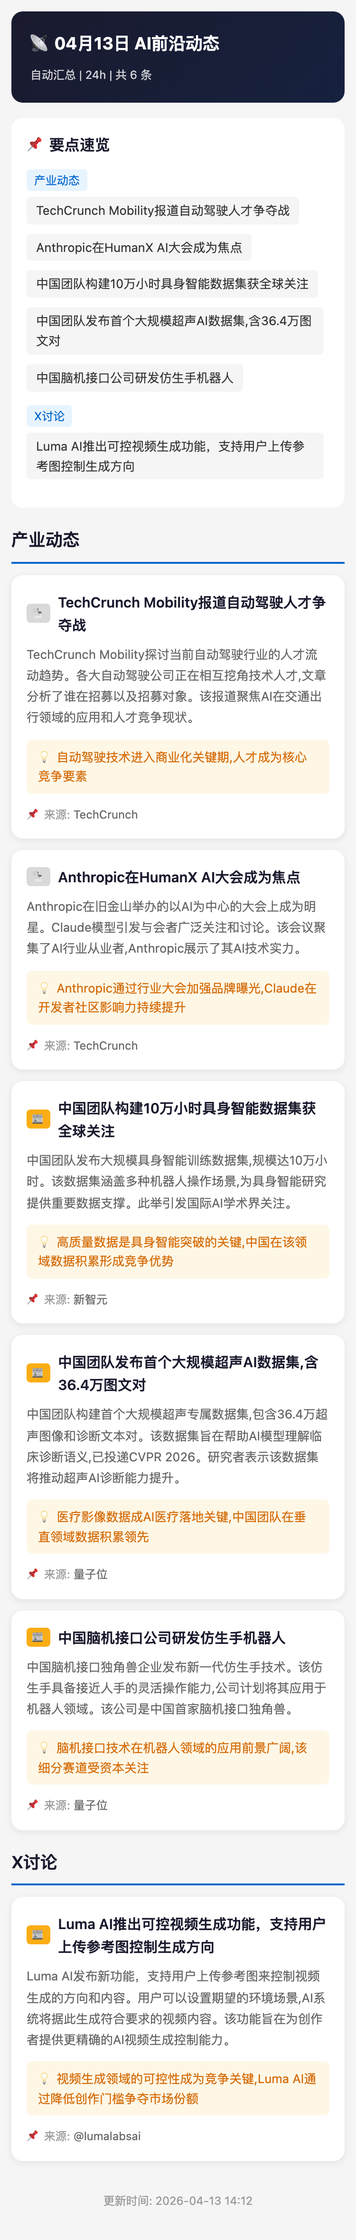
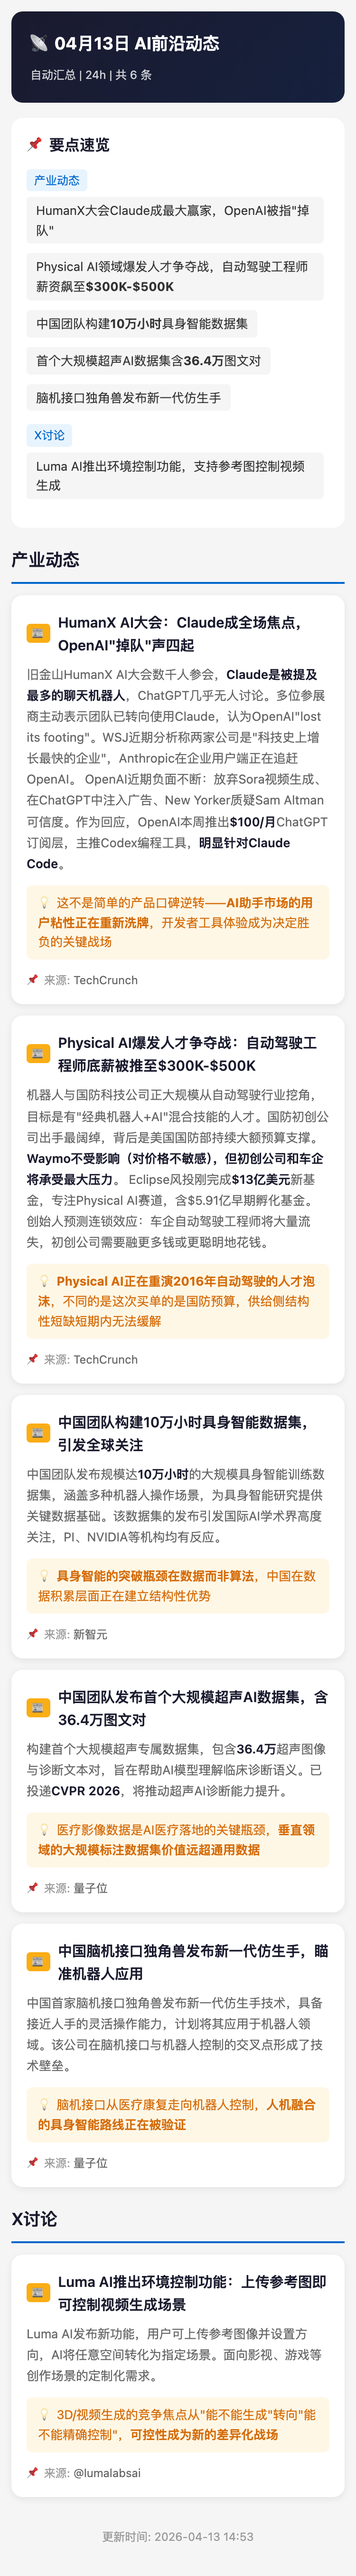
Improve: 2026-04-13 quality upgrade

diff --git a/daily-ai-news-2026-04-13.html b/daily-ai-news-2026-04-13.html
@@ -143,42 +143,42 @@
     </div>
 
     <div class="summary">
-        <h2>📌 要点速览</h2><div class="summary-item"><span class="cat-tag">产业动态</span><span class="summary-title">TechCrunch Mobility报道自动驾驶人才争夺战</span><span class="summary-title">Anthropic在HumanX AI大会成为焦点</span><span class="summary-title">中国团队构建10万小时具身智能数据集获全球关注</span><span class="summary-title">中国团队发布首个大规模超声AI数据集,含36.4万图文对</span><span class="summary-title">中国脑机接口公司研发仿生手机器人</span></div><div class="summary-item"><span class="cat-tag">X讨论</span><span class="summary-title">Luma AI推出可控视频生成功能，支持用户上传参考图控制生成方向</span></div>
+        <h2>📌 要点速览</h2><div class="summary-item"><span class="cat-tag">产业动态</span><span class="summary-title">HumanX大会Claude成最大赢家，OpenAI被指"掉队"</span><span class="summary-title">Physical AI领域爆发人才争夺战，自动驾驶工程师薪资飙至<strong>$300K-$500K</strong></span><span class="summary-title">中国团队构建<strong>10万小时</strong>具身智能数据集</span><span class="summary-title">首个大规模超声AI数据集含<strong>36.4万</strong>图文对</span><span class="summary-title">脑机接口独角兽发布新一代仿生手</span></div><div class="summary-item"><span class="cat-tag">X讨论</span><span class="summary-title">Luma AI推出环境控制功能，支持参考图控制视频生成</span></div>
     </div>
     <div class="content"><div class="section-title">产业动态</div>
         <div class="card">
             <div class="card-header">
-                <span class="priority low">📄</span>
-                <span class="title">TechCrunch Mobility报道自动驾驶人才争夺战</span>
-            </div><div class="body">TechCrunch Mobility探讨当前自动驾驶行业的人才流动趋势。各大自动驾驶公司正在相互挖角技术人才,文章分析了谁在招募以及招募对象。该报道聚焦AI在交通出行领域的应用和人才竞争现状。</div><div class="insight">💡 自动驾驶技术进入商业化关键期,人才成为核心竞争要素</div><div class="source">📌 来源: <a href="https://techcrunch.com/2026/04/12/techcrunch-mobility-who-is-poaching-all-the-self-driving-vehicle-talent/" target="_blank">TechCrunch</a></div></div>
-        <div class="card">
-            <div class="card-header">
-                <span class="priority low">📄</span>
-                <span class="title">Anthropic在HumanX AI大会成为焦点</span>
-            </div><div class="body">Anthropic在旧金山举办的以AI为中心的大会上成为明星。Claude模型引发与会者广泛关注和讨论。该会议聚集了AI行业从业者,Anthropic展示了其AI技术实力。</div><div class="insight">💡 Anthropic通过行业大会加强品牌曝光,Claude在开发者社区影响力持续提升</div><div class="source">📌 来源: <a href="https://techcrunch.com/2026/04/12/at-the-humanx-conference-everyone-was-talking-about-claude/" target="_blank">TechCrunch</a></div></div>
+                <span class="priority medium">📰</span>
+                <span class="title">HumanX AI大会：Claude成全场焦点，OpenAI"掉队"声四起</span>
+            </div><div class="body">旧金山HumanX AI大会数千人参会，<strong>Claude是被提及最多的聊天机器人</strong>，ChatGPT几乎无人讨论。多位参展商主动表示团队已转向使用Claude，认为OpenAI"lost its footing"。WSJ近期分析称两家公司是"科技史上增长最快的企业"，Anthropic在企业用户端正在追赶OpenAI。 OpenAI近期负面不断：放弃Sora视频生成、在ChatGPT中注入广告、New Yorker质疑Sam Altman可信度。作为回应，OpenAI本周推出<strong>$100/月</strong>ChatGPT订阅层，主推Codex编程工具，<strong>明显针对Claude Code</strong>。</div><div class="insight">💡 这不是简单的产品口碑逆转——<strong>AI助手市场的用户粘性正在重新洗牌</strong>，开发者工具体验成为决定胜负的关键战场</div><div class="source">📌 来源: <a href="https://techcrunch.com/2026/04/12/at-the-humanx-conference-everyone-was-talking-about-claude/" target="_blank">TechCrunch</a></div></div>
         <div class="card">
             <div class="card-header">
                 <span class="priority medium">📰</span>
-                <span class="title">中国团队构建10万小时具身智能数据集获全球关注</span>
-            </div><div class="body">中国团队发布大规模具身智能训练数据集,规模达10万小时。该数据集涵盖多种机器人操作场景,为具身智能研究提供重要数据支撑。此举引发国际AI学术界关注。</div><div class="insight">💡 高质量数据是具身智能突破的关键,中国在该领域数据积累形成竞争优势</div><div class="source">📌 来源: <a href="https://mp.weixin.qq.com/s?__biz=MzI3MTA0MTk1MA==&mid=2652691298&idx=1&sn=79453e0eb1067d97a6b91fdd81200b46" target="_blank">新智元</a></div></div>
+                <span class="title">Physical AI爆发人才争夺战：自动驾驶工程师底薪被推至$300K-$500K</span>
+            </div><div class="body">机器人与国防科技公司正大规模从自动驾驶行业挖角，目标是有"经典机器人+AI"混合技能的人才。国防初创公司出手最阔绰，背后是美国国防部持续大额预算支撑。<strong>Waymo不受影响（对价格不敏感），但初创公司和车企将承受最大压力</strong>。 Eclipse风投刚完成<strong>$13亿美元</strong>新基金，专注Physical AI赛道，含$5.91亿早期孵化基金。创始人预测连锁效应：车企自动驾驶工程师将大量流失，初创公司需要融更多钱或更聪明地花钱。</div><div class="insight">💡 <strong>Physical AI正在重演2016年自动驾驶的人才泡沫</strong>，不同的是这次买单的是国防预算，供给侧结构性短缺短期内无法缓解</div><div class="source">📌 来源: <a href="https://techcrunch.com/2026/04/12/techcrunch-mobility-who-is-poaching-all-the-self-driving-vehicle-talent/" target="_blank">TechCrunch</a></div></div>
         <div class="card">
             <div class="card-header">
                 <span class="priority medium">📰</span>
-                <span class="title">中国团队发布首个大规模超声AI数据集,含36.4万图文对</span>
-            </div><div class="body">中国团队构建首个大规模超声专属数据集,包含36.4万超声图像和诊断文本对。该数据集旨在帮助AI模型理解临床诊断语义,已投递CVPR 2026。研究者表示该数据集将推动超声AI诊断能力提升。</div><div class="insight">💡 医疗影像数据成AI医疗落地关键,中国团队在垂直领域数据积累领先</div><div class="source">📌 来源: <a href="https://mp.weixin.qq.com/s?__biz=MzIzNjc1NzUzMw==&mid=2247882513&idx=3&sn=59341c179023f0b961d21b4cf66b6d12" target="_blank">量子位</a></div></div>
+                <span class="title">中国团队构建10万小时具身智能数据集，引发全球关注</span>
+            </div><div class="body">中国团队发布规模达<strong>10万小时</strong>的大规模具身智能训练数据集，涵盖多种机器人操作场景，为具身智能研究提供关键数据基础。该数据集的发布引发国际AI学术界高度关注，PI、NVIDIA等机构均有反应。</div><div class="insight">💡 <strong>具身智能的突破瓶颈在数据而非算法</strong>，中国在数据积累层面正在建立结构性优势</div><div class="source">📌 来源: <a href="https://mp.weixin.qq.com/s?__biz=MzI3MTA0MTk1MA==&mid=2652691298&idx=1&sn=79453e0eb1067d97a6b91fdd81200b46" target="_blank">新智元</a></div></div>
         <div class="card">
             <div class="card-header">
                 <span class="priority medium">📰</span>
-                <span class="title">中国脑机接口公司研发仿生手机器人</span>
-            </div><div class="body">中国脑机接口独角兽企业发布新一代仿生手技术。该仿生手具备接近人手的灵活操作能力,公司计划将其应用于机器人领域。该公司是中国首家脑机接口独角兽。</div><div class="insight">💡 脑机接口技术在机器人领域的应用前景广阔,该细分赛道受资本关注</div><div class="source">📌 来源: <a href="https://mp.weixin.qq.com/s?__biz=MzIzNjc1NzUzMw==&mid=2247882513&idx=1&sn=d4c16158273ff392d9636bf5d11912ba" target="_blank">量子位</a></div></div><div class="section-title">X讨论</div>
+                <span class="title">中国团队发布首个大规模超声AI数据集，含36.4万图文对</span>
+            </div><div class="body">构建首个大规模超声专属数据集，包含<strong>36.4万</strong>超声图像与诊断文本对，旨在帮助AI模型理解临床诊断语义。已投递<strong>CVPR 2026</strong>，将推动超声AI诊断能力提升。</div><div class="insight">💡 医疗影像数据是AI医疗落地的关键瓶颈，<strong>垂直领域的大规模标注数据集价值远超通用数据</strong></div><div class="source">📌 来源: <a href="https://mp.weixin.qq.com/s?__biz=MzIzNjc1NzUzMw==&mid=2247882513&idx=3&sn=59341c179023f0b961d21b4cf66b6d12" target="_blank">量子位</a></div></div>
         <div class="card">
             <div class="card-header">
                 <span class="priority medium">📰</span>
-                <span class="title">Luma AI推出可控视频生成功能，支持用户上传参考图控制生成方向</span>
-            </div><div class="body">Luma AI发布新功能，支持用户上传参考图来控制视频生成的方向和内容。用户可以设置期望的环境场景,AI系统将据此生成符合要求的视频内容。该功能旨在为创作者提供更精确的AI视频生成控制能力。</div><div class="insight">💡 视频生成领域的可控性成为竞争关键,Luma AI通过降低创作门槛争夺市场份额</div><div class="source">📌 来源: <a href="https://x.com/LumaLabsAI/status/2043432137433764259#m" target="_blank">@lumalabsai</a></div></div>
+                <span class="title">中国脑机接口独角兽发布新一代仿生手，瞄准机器人应用</span>
+            </div><div class="body">中国首家脑机接口独角兽发布新一代仿生手技术，具备接近人手的灵活操作能力，计划将其应用于机器人领域。该公司在脑机接口与机器人控制的交叉点形成了技术壁垒。</div><div class="insight">💡 脑机接口从医疗康复走向机器人控制，<strong>人机融合的具身智能路线正在被验证</strong></div><div class="source">📌 来源: <a href="https://mp.weixin.qq.com/s?__biz=MzIzNjc1NzUzMw==&mid=2247882513&idx=1&sn=d4c16158273ff392d9636bf5d11912ba" target="_blank">量子位</a></div></div><div class="section-title">X讨论</div>
+        <div class="card">
+            <div class="card-header">
+                <span class="priority medium">📰</span>
+                <span class="title">Luma AI推出环境控制功能：上传参考图即可控制视频生成场景</span>
+            </div><div class="body">Luma AI发布新功能，用户可上传参考图像并设置方向，AI将任意空间转化为指定场景。面向影视、游戏等创作场景的定制化需求。</div><div class="insight">💡 3D/视频生成的竞争焦点从"能不能生成"转向"能不能精确控制"，<strong>可控性成为新的差异化战场</strong></div><div class="source">📌 来源: <a href="https://x.com/LumaLabsAI/status/2043432137433764259#m" target="_blank">@lumalabsai</a></div></div>
     </div>
     <div class="footer">
-        更新时间: 2026-04-13 14:12
+        更新时间: 2026-04-13 14:53
     </div>
 </body>
 </html>

diff --git a/daily-ai-news.html b/daily-ai-news.html
@@ -143,42 +143,42 @@
     </div>
 
     <div class="summary">
-        <h2>📌 要点速览</h2><div class="summary-item"><span class="cat-tag">产业动态</span><span class="summary-title">TechCrunch Mobility报道自动驾驶人才争夺战</span><span class="summary-title">Anthropic在HumanX AI大会成为焦点</span><span class="summary-title">中国团队构建10万小时具身智能数据集获全球关注</span><span class="summary-title">中国团队发布首个大规模超声AI数据集,含36.4万图文对</span><span class="summary-title">中国脑机接口公司研发仿生手机器人</span></div><div class="summary-item"><span class="cat-tag">X讨论</span><span class="summary-title">Luma AI推出可控视频生成功能，支持用户上传参考图控制生成方向</span></div>
+        <h2>📌 要点速览</h2><div class="summary-item"><span class="cat-tag">产业动态</span><span class="summary-title">HumanX大会Claude成最大赢家，OpenAI被指"掉队"</span><span class="summary-title">Physical AI领域爆发人才争夺战，自动驾驶工程师薪资飙至<strong>$300K-$500K</strong></span><span class="summary-title">中国团队构建<strong>10万小时</strong>具身智能数据集</span><span class="summary-title">首个大规模超声AI数据集含<strong>36.4万</strong>图文对</span><span class="summary-title">脑机接口独角兽发布新一代仿生手</span></div><div class="summary-item"><span class="cat-tag">X讨论</span><span class="summary-title">Luma AI推出环境控制功能，支持参考图控制视频生成</span></div>
     </div>
     <div class="content"><div class="section-title">产业动态</div>
         <div class="card">
             <div class="card-header">
-                <span class="priority low">📄</span>
-                <span class="title">TechCrunch Mobility报道自动驾驶人才争夺战</span>
-            </div><div class="body">TechCrunch Mobility探讨当前自动驾驶行业的人才流动趋势。各大自动驾驶公司正在相互挖角技术人才,文章分析了谁在招募以及招募对象。该报道聚焦AI在交通出行领域的应用和人才竞争现状。</div><div class="insight">💡 自动驾驶技术进入商业化关键期,人才成为核心竞争要素</div><div class="source">📌 来源: <a href="https://techcrunch.com/2026/04/12/techcrunch-mobility-who-is-poaching-all-the-self-driving-vehicle-talent/" target="_blank">TechCrunch</a></div></div>
-        <div class="card">
-            <div class="card-header">
-                <span class="priority low">📄</span>
-                <span class="title">Anthropic在HumanX AI大会成为焦点</span>
-            </div><div class="body">Anthropic在旧金山举办的以AI为中心的大会上成为明星。Claude模型引发与会者广泛关注和讨论。该会议聚集了AI行业从业者,Anthropic展示了其AI技术实力。</div><div class="insight">💡 Anthropic通过行业大会加强品牌曝光,Claude在开发者社区影响力持续提升</div><div class="source">📌 来源: <a href="https://techcrunch.com/2026/04/12/at-the-humanx-conference-everyone-was-talking-about-claude/" target="_blank">TechCrunch</a></div></div>
+                <span class="priority medium">📰</span>
+                <span class="title">HumanX AI大会：Claude成全场焦点，OpenAI"掉队"声四起</span>
+            </div><div class="body">旧金山HumanX AI大会数千人参会，<strong>Claude是被提及最多的聊天机器人</strong>，ChatGPT几乎无人讨论。多位参展商主动表示团队已转向使用Claude，认为OpenAI"lost its footing"。WSJ近期分析称两家公司是"科技史上增长最快的企业"，Anthropic在企业用户端正在追赶OpenAI。 OpenAI近期负面不断：放弃Sora视频生成、在ChatGPT中注入广告、New Yorker质疑Sam Altman可信度。作为回应，OpenAI本周推出<strong>$100/月</strong>ChatGPT订阅层，主推Codex编程工具，<strong>明显针对Claude Code</strong>。</div><div class="insight">💡 这不是简单的产品口碑逆转——<strong>AI助手市场的用户粘性正在重新洗牌</strong>，开发者工具体验成为决定胜负的关键战场</div><div class="source">📌 来源: <a href="https://techcrunch.com/2026/04/12/at-the-humanx-conference-everyone-was-talking-about-claude/" target="_blank">TechCrunch</a></div></div>
         <div class="card">
             <div class="card-header">
                 <span class="priority medium">📰</span>
-                <span class="title">中国团队构建10万小时具身智能数据集获全球关注</span>
-            </div><div class="body">中国团队发布大规模具身智能训练数据集,规模达10万小时。该数据集涵盖多种机器人操作场景,为具身智能研究提供重要数据支撑。此举引发国际AI学术界关注。</div><div class="insight">💡 高质量数据是具身智能突破的关键,中国在该领域数据积累形成竞争优势</div><div class="source">📌 来源: <a href="https://mp.weixin.qq.com/s?__biz=MzI3MTA0MTk1MA==&mid=2652691298&idx=1&sn=79453e0eb1067d97a6b91fdd81200b46" target="_blank">新智元</a></div></div>
+                <span class="title">Physical AI爆发人才争夺战：自动驾驶工程师底薪被推至$300K-$500K</span>
+            </div><div class="body">机器人与国防科技公司正大规模从自动驾驶行业挖角，目标是有"经典机器人+AI"混合技能的人才。国防初创公司出手最阔绰，背后是美国国防部持续大额预算支撑。<strong>Waymo不受影响（对价格不敏感），但初创公司和车企将承受最大压力</strong>。 Eclipse风投刚完成<strong>$13亿美元</strong>新基金，专注Physical AI赛道，含$5.91亿早期孵化基金。创始人预测连锁效应：车企自动驾驶工程师将大量流失，初创公司需要融更多钱或更聪明地花钱。</div><div class="insight">💡 <strong>Physical AI正在重演2016年自动驾驶的人才泡沫</strong>，不同的是这次买单的是国防预算，供给侧结构性短缺短期内无法缓解</div><div class="source">📌 来源: <a href="https://techcrunch.com/2026/04/12/techcrunch-mobility-who-is-poaching-all-the-self-driving-vehicle-talent/" target="_blank">TechCrunch</a></div></div>
         <div class="card">
             <div class="card-header">
                 <span class="priority medium">📰</span>
-                <span class="title">中国团队发布首个大规模超声AI数据集,含36.4万图文对</span>
-            </div><div class="body">中国团队构建首个大规模超声专属数据集,包含36.4万超声图像和诊断文本对。该数据集旨在帮助AI模型理解临床诊断语义,已投递CVPR 2026。研究者表示该数据集将推动超声AI诊断能力提升。</div><div class="insight">💡 医疗影像数据成AI医疗落地关键,中国团队在垂直领域数据积累领先</div><div class="source">📌 来源: <a href="https://mp.weixin.qq.com/s?__biz=MzIzNjc1NzUzMw==&mid=2247882513&idx=3&sn=59341c179023f0b961d21b4cf66b6d12" target="_blank">量子位</a></div></div>
+                <span class="title">中国团队构建10万小时具身智能数据集，引发全球关注</span>
+            </div><div class="body">中国团队发布规模达<strong>10万小时</strong>的大规模具身智能训练数据集，涵盖多种机器人操作场景，为具身智能研究提供关键数据基础。该数据集的发布引发国际AI学术界高度关注，PI、NVIDIA等机构均有反应。</div><div class="insight">💡 <strong>具身智能的突破瓶颈在数据而非算法</strong>，中国在数据积累层面正在建立结构性优势</div><div class="source">📌 来源: <a href="https://mp.weixin.qq.com/s?__biz=MzI3MTA0MTk1MA==&mid=2652691298&idx=1&sn=79453e0eb1067d97a6b91fdd81200b46" target="_blank">新智元</a></div></div>
         <div class="card">
             <div class="card-header">
                 <span class="priority medium">📰</span>
-                <span class="title">中国脑机接口公司研发仿生手机器人</span>
-            </div><div class="body">中国脑机接口独角兽企业发布新一代仿生手技术。该仿生手具备接近人手的灵活操作能力,公司计划将其应用于机器人领域。该公司是中国首家脑机接口独角兽。</div><div class="insight">💡 脑机接口技术在机器人领域的应用前景广阔,该细分赛道受资本关注</div><div class="source">📌 来源: <a href="https://mp.weixin.qq.com/s?__biz=MzIzNjc1NzUzMw==&mid=2247882513&idx=1&sn=d4c16158273ff392d9636bf5d11912ba" target="_blank">量子位</a></div></div><div class="section-title">X讨论</div>
+                <span class="title">中国团队发布首个大规模超声AI数据集，含36.4万图文对</span>
+            </div><div class="body">构建首个大规模超声专属数据集，包含<strong>36.4万</strong>超声图像与诊断文本对，旨在帮助AI模型理解临床诊断语义。已投递<strong>CVPR 2026</strong>，将推动超声AI诊断能力提升。</div><div class="insight">💡 医疗影像数据是AI医疗落地的关键瓶颈，<strong>垂直领域的大规模标注数据集价值远超通用数据</strong></div><div class="source">📌 来源: <a href="https://mp.weixin.qq.com/s?__biz=MzIzNjc1NzUzMw==&mid=2247882513&idx=3&sn=59341c179023f0b961d21b4cf66b6d12" target="_blank">量子位</a></div></div>
         <div class="card">
             <div class="card-header">
                 <span class="priority medium">📰</span>
-                <span class="title">Luma AI推出可控视频生成功能，支持用户上传参考图控制生成方向</span>
-            </div><div class="body">Luma AI发布新功能，支持用户上传参考图来控制视频生成的方向和内容。用户可以设置期望的环境场景,AI系统将据此生成符合要求的视频内容。该功能旨在为创作者提供更精确的AI视频生成控制能力。</div><div class="insight">💡 视频生成领域的可控性成为竞争关键,Luma AI通过降低创作门槛争夺市场份额</div><div class="source">📌 来源: <a href="https://x.com/LumaLabsAI/status/2043432137433764259#m" target="_blank">@lumalabsai</a></div></div>
+                <span class="title">中国脑机接口独角兽发布新一代仿生手，瞄准机器人应用</span>
+            </div><div class="body">中国首家脑机接口独角兽发布新一代仿生手技术，具备接近人手的灵活操作能力，计划将其应用于机器人领域。该公司在脑机接口与机器人控制的交叉点形成了技术壁垒。</div><div class="insight">💡 脑机接口从医疗康复走向机器人控制，<strong>人机融合的具身智能路线正在被验证</strong></div><div class="source">📌 来源: <a href="https://mp.weixin.qq.com/s?__biz=MzIzNjc1NzUzMw==&mid=2247882513&idx=1&sn=d4c16158273ff392d9636bf5d11912ba" target="_blank">量子位</a></div></div><div class="section-title">X讨论</div>
+        <div class="card">
+            <div class="card-header">
+                <span class="priority medium">📰</span>
+                <span class="title">Luma AI推出环境控制功能：上传参考图即可控制视频生成场景</span>
+            </div><div class="body">Luma AI发布新功能，用户可上传参考图像并设置方向，AI将任意空间转化为指定场景。面向影视、游戏等创作场景的定制化需求。</div><div class="insight">💡 3D/视频生成的竞争焦点从"能不能生成"转向"能不能精确控制"，<strong>可控性成为新的差异化战场</strong></div><div class="source">📌 来源: <a href="https://x.com/LumaLabsAI/status/2043432137433764259#m" target="_blank">@lumalabsai</a></div></div>
     </div>
     <div class="footer">
-        更新时间: 2026-04-13 14:12
+        更新时间: 2026-04-13 14:53
     </div>
 </body>
 </html>

diff --git a/daily-ai-news.md b/daily-ai-news.md
@@ -1,4 +1,4 @@
-## 04月12日 AI 前沿动态
+## 04月13日 AI 前沿动态
 
 > 自动汇总 | 时间窗口: 24h | 每类 Top 5
 
@@ -6,75 +6,47 @@
 
 #要点汇总#
 
-- 产业动态：OpenAI星门计划三位核心负责人离职; Anthropic暂时封禁OpenClaw创始人Claude账号; Claude AI推出Word集成beta版本; 阿里Qwen Code推出定时任务功能; Google更新Gemini App集成NotebookLM功能
-- 算力追踪：Anthropic租用CoreWeave算力支持Claude; 光通信龙头Lumentum称2028年产能即将售罄
-- 研究关注：Meta押注Neural Computers：下一代计算机就是模型本身
-- 初创&融资：生数科技融资2.93亿美元阿里云领投，布局通用世界模型
-- X讨论：阿里Qwen发布子代理模型选择策略; SemiAnalysis展示用Claude同时运行8窗口控制agent swarm
+- 产业动态：HumanX大会Claude成最大赢家，OpenAI被指"掉队"; Physical AI领域爆发人才争夺战，自动驾驶工程师薪资飙至**$300K-$500K**; 中国团队构建**10万小时**具身智能数据集; 首个大规模超声AI数据集含**36.4万**图文对; 脑机接口独角兽发布新一代仿生手
+- X讨论：Luma AI推出环境控制功能，支持参考图控制视频生成
 
 ---
 
 ## 📖 详细参考
 
 ### 产业动态
-**OpenAI星门计划三位核心负责人离职**
-- 曾参与启动OpenAI首个星门（Stargate）数据中心项目的三位高管集体离职，包括项目负责人Peter Herschler、算力战略负责人Shamez Hemani和算力部门负责人Anuj Saharan。星门是OpenAI首个超大规模数据中心项目，核心团队同时离开意味着算力基建战略可能面临方向性调整。
-  > 💡 核心基建团队集体出走对星门项目推进构成重大风险，OpenAI算力战略不确定性增加
-   - 来源: [36氪](https://36kr.com/newsflashes/3760818675565060)
+**HumanX AI大会：Claude成全场焦点，OpenAI"掉队"声四起**
+- 旧金山HumanX AI大会数千人参会，**Claude是被提及最多的聊天机器人**，ChatGPT几乎无人讨论。多位参展商主动表示团队已转向使用Claude，认为OpenAI"lost its footing"。WSJ近期分析称两家公司是"科技史上增长最快的企业"，Anthropic在企业用户端正在追赶OpenAI。
+- OpenAI近期负面不断：放弃Sora视频生成、在ChatGPT中注入广告、New Yorker质疑Sam Altman可信度。作为回应，OpenAI本周推出**$100/月**ChatGPT订阅层，主推Codex编程工具，**明显针对Claude Code**。
+  > 💡 这不是简单的产品口碑逆转——**AI助手市场的用户粘性正在重新洗牌**，开发者工具体验成为决定胜负的关键战场
+   - 来源: [TechCrunch](https://techcrunch.com/2026/04/12/at-the-humanx-conference-everyone-was-talking-about-claude/)
 
-**Anthropic暂时封禁OpenClaw创始人Claude账号**
-- OpenClaw创始人Peter Steinberger（现就职OpenAI）的Claude账号被Anthropic以"可疑活动"为由暂时封禁，在X上引发热议后数小时内恢复。此前Anthropic刚宣布Claude订阅不再覆盖OpenClaw等第三方工具，改为API按量计费——本质上是对开源工具征收"claw tax"。Steinberger暗示Anthropic先在自家Cowork agent中复制热门功能，再封锁开源工具，并透露"一家欢迎我，一家发律师函"。
-  > 💡 AI巨头通过定价策略和平台控制挤压第三方开源工具，平台锁定趋势值得关注
-   - 来源: [TechCrunch](https://techcrunch.com/2026/04/10/anthropic-temporarily-banned-openclaws-creator-from-accessing-claude/)
+**Physical AI爆发人才争夺战：自动驾驶工程师底薪被推至$300K-$500K**
+- 机器人与国防科技公司正大规模从自动驾驶行业挖角，目标是有"经典机器人+AI"混合技能的人才。国防初创公司出手最阔绰，背后是美国国防部持续大额预算支撑。**Waymo不受影响（对价格不敏感），但初创公司和车企将承受最大压力**。
+- Eclipse风投刚完成**$13亿美元**新基金，专注Physical AI赛道，含$5.91亿早期孵化基金。创始人预测连锁效应：车企自动驾驶工程师将大量流失，初创公司需要融更多钱或更聪明地花钱。
+  > 💡 **Physical AI正在重演2016年自动驾驶的人才泡沫**，不同的是这次买单的是国防预算，供给侧结构性短缺短期内无法缓解
+   - 来源: [TechCrunch](https://techcrunch.com/2026/04/12/techcrunch-mobility-who-is-poaching-all-the-self-driving-vehicle-talent/)
 
-**Claude AI推出Word集成beta版本**
-- Claude for Word已开放beta测试，用户可直接从侧边栏起草、编辑和修订文档。Claude保留原有格式，编辑内容以追踪更改的形式呈现。
-  > 💡 AI助手向传统办公软件渗透是商业化的重要路径
-   - 来源: [@claudeai](https://x.com/claudeai/status/2042670341915295865#m)
+**中国团队构建10万小时具身智能数据集，引发全球关注**
+- 中国团队发布规模达**10万小时**的大规模具身智能训练数据集，涵盖多种机器人操作场景，为具身智能研究提供关键数据基础。该数据集的发布引发国际AI学术界高度关注，PI、NVIDIA等机构均有反应。
+  > 💡 **具身智能的突破瓶颈在数据而非算法**，中国在数据积累层面正在建立结构性优势
+   - 来源: [新智元](https://mp.weixin.qq.com/s?__biz=MzI3MTA0MTk1MA==&mid=2652691298&idx=1&sn=79453e0eb1067d97a6b91fdd81200b46)
 
-**阿里Qwen Code推出定时任务功能**
-- 用户可以告诉Qwen Code设置每30分钟检查测试是否通过的定时任务，系统会自动在项目环境中配置cron job。这扩展了AI编程助手的自动化能力。
-  > 💡 AI编程助手向持续集成/自动化方向演进
-   - 来源: [@alibaba_qwen](https://x.com/Alibaba_Qwen/status/2042551225795703290#m)
+**中国团队发布首个大规模超声AI数据集，含36.4万图文对**
+- 构建首个大规模超声专属数据集，包含**36.4万**超声图像与诊断文本对，旨在帮助AI模型理解临床诊断语义。已投递**CVPR 2026**，将推动超声AI诊断能力提升。
+  > 💡 医疗影像数据是AI医疗落地的关键瓶颈，**垂直领域的大规模标注数据集价值远超通用数据**
+   - 来源: [量子位](https://mp.weixin.qq.com/s?__biz=MzIzNjc1NzUzMw==&mid=2247882513&idx=3&sn=59341c179023f0b961d21b4cf66b6d12)
 
-**Google更新Gemini App集成NotebookLM功能**
-- Google本周更新了Gemini App，新增Notebooks功能，与NotebookLM集成使用户能够检索相关信息。这是Gemini生态系统的功能扩展。
-  > 💡 产品功能整合提升用户粘性，Google在AI助手场景持续深耕
-   - 来源: [@googleai](https://x.com/GoogleAI/status/2042671003570983299#m)
-
-### 算力追踪
-**Anthropic租用CoreWeave算力支持Claude**
-- Anthropic向CoreWeave租用数据中心算力，涵盖美国数据中心多种英伟达芯片架构，用于构建和部署Claude模型。CoreWeave目前已将四大AI模型开发商纳入客户名单，意味着AI算力需求正从传统云厂商向专业GPU云服务商分流。
-  > 💡 AI算力竞争从芯片延伸到云服务层，专业GPU云正成为大模型公司的新基建选择
-   - 来源: [36氪](https://36kr.com/newsflashes/3760948716438017)
-
-**光通信龙头Lumentum: 2028年产能即将售罄**
-- Lumentum CEO表示，超大规模云厂商资本开支极其庞大且没有放缓迹象，按当前趋势再过两个季度2028年全年产能将彻底售罄。他判断本轮光通信景气周期至少持续5年。AI数据中心对高速光互联的需求已从短期爆发转为长期结构性增长。
-  > 💡 光通信产能持续紧张印证AI基础设施投资进入长周期，不是短期泡沫
-   - 来源: [36氪](https://36kr.com/newsflashes/3760888124146437)
-
-### 研究关注
-**Meta押注Neural Computers：下一代计算机就是模型本身**
-- Meta提出Neural Computers概念，主张AI模型本身就是下一代计算平台，不再依赖传统软件栈。这一思路意味着未来应用开发可能从"编写代码"转向"训练和微调模型"，计算范式可能发生根本性转变。
-  > 💡 模型即计算机的理念如果成真，将从底层重构软件产业，但距离实用仍有相当距离
-   - 来源: [PaperWeekly](https://mp.weixin.qq.com/s?__biz=MzIwMTc4ODE0Mw==&mid=2247719459&idx=1&sn=e2c6f6e72e2e3f732d196c322d90c386)
-
-### 初创&融资
-**生数科技融资2.93亿美元，阿里云领投，布局通用世界模型**
-- 由清华大学朱军教授创立的AI初创企业生数科技完成20亿元人民币融资，阿里云领投。资金将用于开发"通用世界模型"，通过处理感官信息模拟人类感知与交互。生数科技是中国首家发布视频生成模型（Vidu）的公司，近期还开源了面向机器人控制的Motus模型，正从视频生成向具身智能拓展。
-  > 💡 生数科技从视频生成切入、逐步走向具身智能的技术路径清晰，阿里云领投显示国产大模型投资正从"卷模型"转向"卷落地"
-   - 来源: [新浪财经](https://finance.sina.com.cn/videoroll/2026-04-10/doc-inhtyrwc5286201.shtml)
+**中国脑机接口独角兽发布新一代仿生手，瞄准机器人应用**
+- 中国首家脑机接口独角兽发布新一代仿生手技术，具备接近人手的灵活操作能力，计划将其应用于机器人领域。该公司在脑机接口与机器人控制的交叉点形成了技术壁垒。
+  > 💡 脑机接口从医疗康复走向机器人控制，**人机融合的具身智能路线正在被验证**
+   - 来源: [量子位](https://mp.weixin.qq.com/s?__biz=MzIzNjc1NzUzMw==&mid=2247882513&idx=1&sn=d4c16158273ff392d9636bf5d11912ba)
 
 ### X讨论
-**阿里Qwen发布子代理模型选择策略**
-- 阿里Qwen提出子代理模型选择方案：主代理使用Qwen3.6-Plus保证质量，但不同子任务可根据需求选择不同模型。这种分层模型架构可优化成本与性能的平衡。
-  > 💡 模型路由和任务分配成为agent架构优化的关键方向
-   - 来源: [@alibaba_qwen](https://x.com/Alibaba_Qwen/status/2042551230023762081#m)
+**Luma AI推出环境控制功能：上传参考图即可控制视频生成场景**
+- Luma AI发布新功能，用户可上传参考图像并设置方向，AI将任意空间转化为指定场景。面向影视、游戏等创作场景的定制化需求。
+  > 💡 3D/视频生成的竞争焦点从"能不能生成"转向"能不能精确控制"，**可控性成为新的差异化战场**
+   - 来源: [@lumalabsai](https://x.com/LumaLabsAI/status/2043432137433764259#m)
 
-**SemiAnalysis展示用Claude同时运行8窗口控制agent swarm**
-- SemiAnalysis构建了一个系统，让intern同时运行8个Claude窗口来管理agent swarm。该系统实现了token mogging功能，展示了多代理协作的架构设计。这一实践体现了AI agent在工作流中的实际应用方式。
-  > 💡 多窗口并发控制agent代表了一种新的AI协作架构，但实际效能和可靠性仍需验证
-   - 来源: [@semianalysis_](https://x.com/SemiAnalysis_/status/2042719069397282992#m)
 
 ---
-*更新时间: 2026-04-11 09:40*
+*更新时间: 2026-04-13 14:04*
